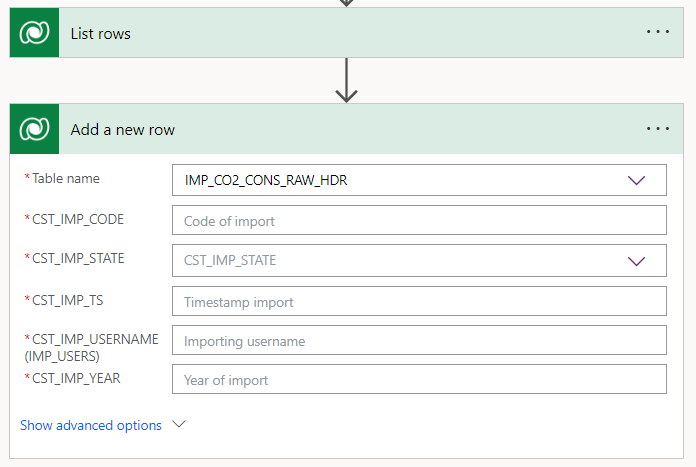
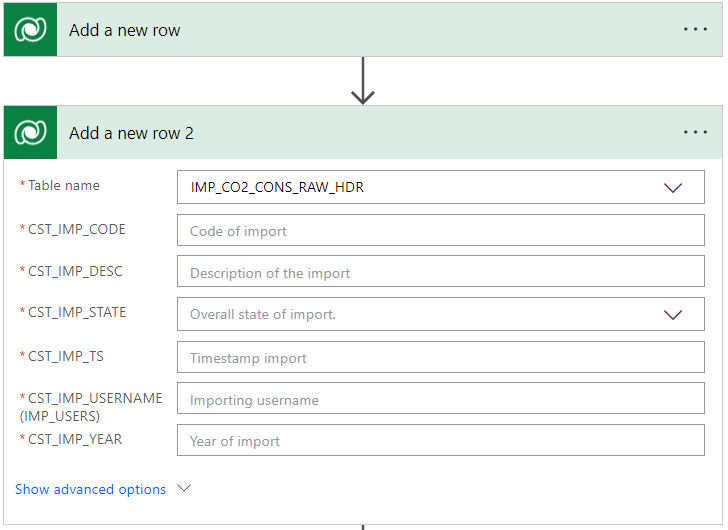
bugfix

diff --git a/04_ImplementWizardStep1Part2.md b/04_ImplementWizardStep1Part2.md
@@ -44,17 +44,17 @@ Set the fields as shown in the table:
 | Select columns | MetadataId                |
 | Row count      | 1                         |
 
-The expression for `Filter rows` we use for filtering the rows by the importing username that was specified in the form. The expression is `hackpp_sceapp_cst_username eq '<value from form>'`. Technically the value from the form is passed as parameter. We have to tell now Power Platform to generate a parameter for us. The screenshot below shows how that is done by selecting the expression `Ask in PowerApps`:
+The expression for `Filter rows` we use for filtering the rows by the importing username that was specified in the form. The expression is `hackpp_sceapp_cst_username eq '<value from form>'`. Technically the value from the form is passed as parameter. We have to tell now Power Platform to generate a parameter for us. The screenshot below shows how that is done by selecting from the tab `Dynamic Content` the expression `Ask in PowerApps`:
 
 <br><img src="./images/flow_new_list_rows_add_para.png" /><br>
 
 When you hover over the generated expression you also the name of the expected parameter which is `Listrows_Filterrows` (Corresponds to `<name of action>_<name of field>`).
 
-In the next step we will add a new row that represents our import. We will use the `Add a new row` action within dataverse. Click `New Step` and enter `dataverse` in the search field. Pick the action `List rows`. The screenshot below shows the action. Select `IMP_CO2_CONS_RAW_HDR` as table name. As a result the table specific tables will be shown as illustrated in the screenshot below:
+In the next step we will add a new row that represents our import. We will use the `Add a new row` action within dataverse. Click `New Step` and enter `dataverse` in the search field. Pick the action `List rows`. The screenshot below shows the action. Select `IMP_CO2_CONS_RAW_HDR` as table name. As a result the table specific tables will be shown as illustrated in the screenshot below. Mandatory fields are marked with an asteriks. The generated UI is not correct reagrding `CST_IMP_CODE`. Yes as logical primary key it is mandatory. However due to the auto generated definition no value would be mandatory. We will provide a dummy to satisfy the constraints:
 
 <br><img src="./images/flow_new_add_row.png" /><br>
 
-As a first value we will set the value for CST_IMP_USERNAMES. Power Platform expects an expression `<EntitySetName>(<GUID of record>)>`. The entity set name in our case is `<EntityName>` and `<GUID of record>` is the result of the previous action. Enter `cst_users()` and position the mouse cursor into the parentheses. Power Platform will assist you in completing the dynamic expression needed here. Pick `OData Id` from the displayed options as shown in the screenshot.
+As a first value we will set the value for CST_IMP_USERNAMES. Power Platform expects an expression `<EntitySetName>(<GUID of record>)>`. The entity set name in our case is `<EntityName>` and `<GUID of record>` is the result of the previous action. Enter `hackpp_sceapp_imp_users()` and position the mouse cursor into the parentheses. Power Platform will assist you in completing the dynamic expression needed here. Pick `IMP_USR` from the displayed options in the tab `Dynamic content` as shown in the screenshot.
 
 <br><img src="./images/flow_new_set_imp_user.png" /><br>
 
@@ -76,14 +76,23 @@ Let's try to understand `Apply tp each` better. It is working as major input on 
 	}]
 }
 ```
-The used path `body/value` is another word navigate to the `value` property. As you can see in the JSON it is an array. The loop now cycles over each entry. We need the id which is shown as `IMP_USER x`. The expression `items('Apply_to_each')?['hackpp_sceapp_imp_userid']` behind is easy to understand.
+The used path `body/value` is another word for navigating to the `value` property. As you can see in the JSON the property `value` is an array. The loop now cycles over each entry. We need the id which is shown as `IMP_USER x`. With the expression `items('Apply_to_each')?['hackpp_sceapp_imp_userid']` we pick the technical id we are interested in.
 
-Expand the `Add new row` action again and set now the remaining fields as shown below:
+Expand the `Add new row` action again to set now the remaining fields. For setting `CST_IMP_TS` the built-in function `utcNow`. As you can see in the screenshot we are in the tab `Expression` and enter it as formula bar:
+
+<br><img src="./images/flow_new_add_row_ts_utcnow.png" /><br>
+
+Follow the instructions in the table for the rest:
 |Field           |Value                                         |
 |----------------|----------------------------------------------|
-| CST_IMP_TS     | utcNow                                       |
+| CST_IMP_CODE   | Set `''` to indicate an empty string     |
 | CST_IMP_YEAR   | Use the way for adding a parameter as before |
+| CST_IMP_DESC   | Use the way for adding a parameter as before |
 | CST_IMP_STATE  | Fixed value for Pending                      |
+
+When you have filled out everything your action should like the following:
+
+<br><img src="./images/flow_new_row_final.png" /><br>
 
 As a last step we now have to return primary key of the newly created record. Enter `PowerApp` as category and add a new action `Respond to a PowerApp or flow`. In the beginning the task is empty and we have to create a return parameter by clicking on `Add an output`. Click on the button and select `Text`. You will then get the fields for a new named output as shown below:
 
@@ -99,13 +108,33 @@ Before you leave the designer note the name of the flow you have defined. You wi
 
 The following steps are necessary to add your flow:
 * Add the new flow to your application
-
-  Click on the power automate icon and click the button `Add flow`. Enter the name under which you saved the flow.
-
 * Submit Button
 
-  Enter the following formula in the property `OnSelected`: `If(Form1.Mode = "New",
-TestFlowInp.Run(CST_IMP_CODE_DataCard1.DataCardValue1), SubmitForm(Form1))`
+**Regarding add flow)**
+
+Click on the power automate icon and click the button `Add flow`. Enter the name under which you saved the flow.
+
+**Submit Button)**
+
+Enter the following formula in the property `OnSelected`: 
+```
+If(locImpMode = "New", 
+   UpdateContext(
+	{locParaUserName: DataCardValue3.Selected.CST_USERNAME,
+	 locParaYear: DataCardValue3.Text,
+	 locParaDesc: DataCardValue3.Text});
+   UpdateContext(
+	 {locNewImpCode: TestFlowInp.Run(
+		locParaUserName,
+		locParaYear,
+		locParaDesc
+		).returnedval });
+   Notify(locNewImpCode & " has been created."), 
+   SubmitForm(<TODOName of form>);
+   Notify(LastSubmit().CST_IMP_CODE & " has been updated."))
+```
+
+TODO explain this code
 
 # 3. Testing changes
 
